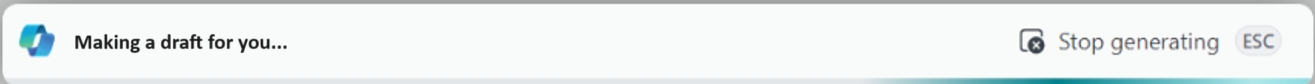
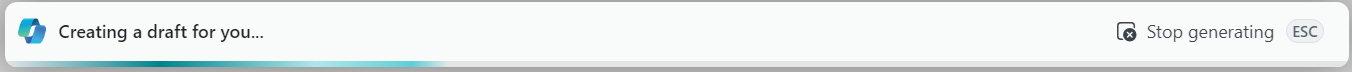
update

diff --git a/dev-itpro/developer/ai-build-experience.md b/dev-itpro/developer/ai-build-experience.md
@@ -101,7 +101,7 @@ The prompt area is where users can provide input to the AI generation. The promp
 
 ![Shows the prompt area of the PromptDialog type page](media/promptdialog-prompt-mode-prompt-area.svg)
 
-The prompt area is defined by adding an `area` control to the `layout` of the page, similar to way you'd add content areas on other page types. Except you use the syntax `area(Prompt)`: 
+The prompt area is defined by adding an `area` control to the `layout` of the page, similar to way you'd add content areas on other page types. Except you use the syntax `area(Prompt)`:
 
 ```al
 layout
@@ -224,7 +224,7 @@ By default, the caption of PromptDialog page when it's in the generate mode is *
 
 You can customize the caption by using the [Dialog.Open()](methods-auto/dialog/dialog-open-method.md) or [Dialog.Update()](methods-auto/dialog/dialog-update-method.md) methods. Customizing the caption enables you to give users more specific feedback about what Copilot is doing or how it's progressing. This is especially useful if the Copilot consists of multiple steps or takes a long time.
 
-The following code example changes the caption to **Making a draft for you...** by calling `Dialog.Open()` on the `OnAction()` trigger of the `systemaction(Generate)` action:
+The following code example changes the caption to **Creating a draft for you...** by calling `Dialog.Open()` on the `OnAction()` trigger of the `systemaction(Generate)` action:
 
 ```al
 systemaction(Generate)
@@ -233,7 +233,7 @@ systemaction(Generate)
     var
         ProgressDialog: Dialog;
     begin
-        ProgressDialog.Open('Making a draft for you...');
+        ProgressDialog.Open('Creating a draft for you...');
     end;
 }
 ```
@@ -246,9 +246,11 @@ For a more complex example, refer to `RunGeneration()` procedure in the `Copilot
 
 ## Design the content mode
 
-The content mode shows the AI-generated output. It enables users to review output, then choose to regenerate, save, or discard it. 
+The content mode shows the AI-generated output. It enables users to review output, then choose to regenerate, save, or discard it.
 
 <!--![Shows a screenshot of the content mode of the PromptDialog type page](media/promptdialog-content-mode.svg)-->
+
+If the PromptDialog page has a prompt area (`area(Prompt)`), then an edit prompt ![Shows the prompt edit icon](media/prompt-edit.png) button appears in the upper-left corner of the page when it's in the content mode. This edit button let's users to open the prompt area to provide new input or modify input.
 
 ### Add a content area
 
@@ -343,23 +345,27 @@ actions
 
 ```
 
-## Customize the caption 
+### Customize the caption in content mode
 
-By default, the `Caption` property of the PromptDialog page determines UI caption in prompt and content modes of the PromptDialog page. By using the [DataCaptionExpression property](properties/devenv-datacaptionexpression-property.md), you can change the caption dynamically. This property enables you to display a different caption when the page is in the content and generate mode than in the prompt mode.
+By default, the `Caption` property of the PromptDialog page determines UI caption in prompt and content modes of the PromptDialog page. By using the [DataCaptionExpression property](properties/devenv-datacaptionexpression-property.md), you can change the caption dynamically. This property enables you to display a different caption in the content than in the prompt mode.
 
 ![Shows the caption next to the edit button in PromptDialog type page](media/promptdialog-content-mode-caption.svg)
 
-A useful pattern is to show the input that was made by the user before the AI generation is done.
+A useful pattern for the caption is use the prompt input that was provided before the AI generation is done. For example Business Central's marketing text suggestions with Copilot uses the pattern.
+
+The following code uses the `DataCaptionExpression` property in our example to set the caption to the text the user provides in the prompt area:
 
 ```al
-
-page 50100 My Copilot"
+page 50100 "My copilot"
 {
     Caption = 'Draft with my copilot';
-    DataCaptionExpression = UserInput;
     PageType = PromptDialog;
     Extensible = false;
-
+    PromptMode = Prompt;
+    IsPreview = true;
+    DataCaptionExpression = UserInput;
+...
+}
 ```
 
 ## Enable proposal history capability
